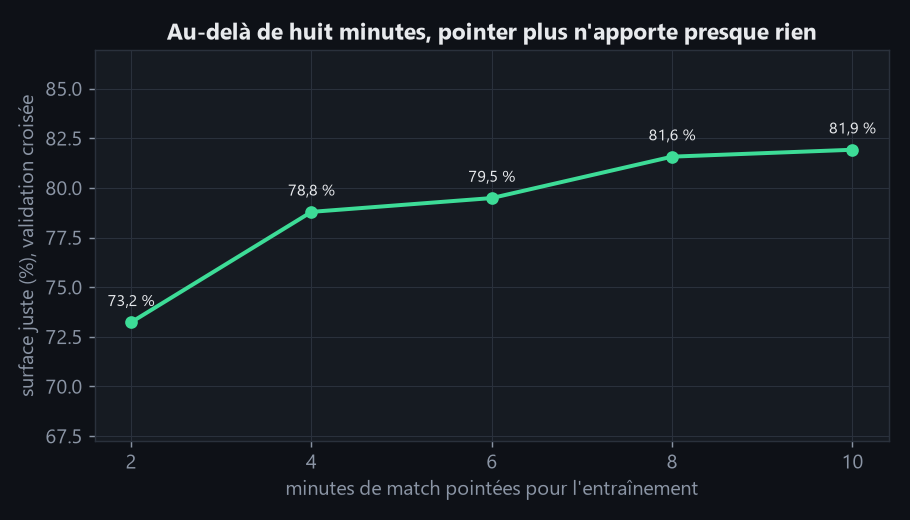
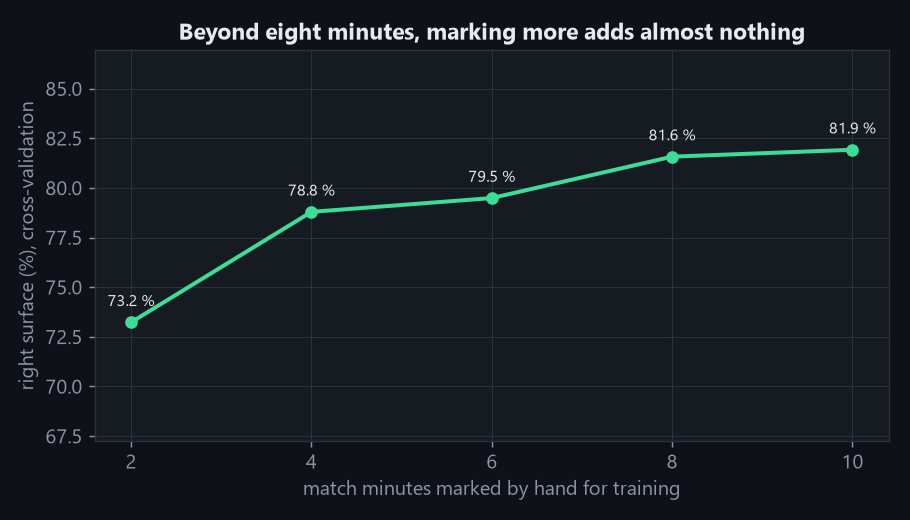
feat: statistics panel and figures in English

diff --git a/src/padel_analysis/render/figures.py b/src/padel_analysis/render/figures.py
@@ -34,7 +34,7 @@ def judges_chart(verdicts: dict, cv: dict | None, path: Path) -> None:
 
     groups, rules, model = [], [], []
     if cv is not None:
-        groups.append("Validation\ncroisée")
+        groups.append("Cross-\nvalidation")
         rules.append(_share(cv["regles"]))
         model.append(_share(cv["modele"]))
     for judge in verdicts["judges"]:
@@ -44,22 +44,22 @@ def judges_chart(verdicts: dict, cv: dict | None, path: Path) -> None:
     pooled = {kind: {"right": sum(j[kind]["right"] for j in verdicts["judges"]),
                      "real": sum(j[kind]["real"] for j in verdicts["judges"])}
               for kind in ("rules", "model")}
-    groups.append(f"Trois juges\n({pooled['model']['real']} contacts)")
+    groups.append(f"All judges\n({pooled['model']['real']} contacts)")
     rules.append(_share(pooled["rules"]))
     model.append(_share(pooled["model"]))
 
     figure, axis = plt.subplots(figsize=(9, 4.6))
     x = np.arange(len(groups))
-    for offset, values, colour, label in ((-0.2, rules, style.RULES, "Règles réglées à la main"),
-                                          (0.2, model, style.MODEL, "Modèle appris")):
+    for offset, values, colour, label in ((-0.2, rules, style.RULES, "Hand-tuned rules"),
+                                          (0.2, model, style.MODEL, "Learned model")):
         bars = axis.bar(x + offset, values, 0.38, color=colour, label=label, zorder=2)
         for bar, value in zip(bars, values, strict=True):
             axis.text(bar.get_x() + bar.get_width() / 2, value + 1, f"{value:.0f} %",
                       ha="center", color=style.TEXT, fontsize=9)
     axis.set_xticks(x, groups)
     axis.set_ylim(0, 100)
-    axis.set_ylabel("contacts réels donnés avec la bonne surface (%)")
-    axis.set_title("Contacts et surfaces, sur ce que la vidéo affiche")
+    axis.set_ylabel("real contacts given the right surface (%)")
+    axis.set_title("Contacts and surfaces, on what the video shows")
     axis.legend(loc="upper left", ncol=2)
     axis.grid(axis="x", visible=False)
     _save(figure, path)
@@ -75,14 +75,14 @@ def learning_curve_chart(curve: Sequence[dict], path: Path) -> None:
     figure, axis = plt.subplots(figsize=(7, 4))
     axis.plot(sizes, shares, color=style.MODEL, marker="o", linewidth=2.2, zorder=2)
     for size, share in zip(sizes, shares, strict=True):
-        axis.annotate(f"{share:.1f} %".replace(".", ","), (size, share),
+        axis.annotate(f"{share:.1f} %", (size, share),
                       textcoords="offset points",
                       xytext=(0, 9), ha="center", fontsize=9)
-    axis.set_xlabel("minutes de match pointées pour l'entraînement")
-    axis.set_ylabel("surface juste (%), validation croisée")
+    axis.set_xlabel("match minutes marked by hand for training")
+    axis.set_ylabel("right surface (%), cross-validation")
     axis.set_xticks(sizes)
     axis.set_ylim(min(shares) - 6, max(shares) + 5)
-    axis.set_title("Au-delà de huit minutes, pointer plus n'apporte presque rien")
+    axis.set_title("Beyond eight minutes, marking more adds almost nothing")
     _save(figure, path)
 
 
@@ -113,9 +113,9 @@ def confusion_chart(confusion: Sequence[dict], path: Path) -> None:
     names = [style.KIND_NAMES[kind] for kind in labels]
     axis.set_xticks(range(len(labels)), names)
     axis.set_yticks(range(len(labels)), names)
-    axis.set_xlabel("réponse du modèle")
-    axis.set_ylabel("vérité, pointée à la main")
-    axis.set_title("Qui est pris pour qui")
+    axis.set_xlabel("the model's answer")
+    axis.set_ylabel("truth, marked by hand")
+    axis.set_title("What is taken for what")
     axis.grid(False)
     _save(figure, path)
 
@@ -135,7 +135,7 @@ def heatmaps_chart(positions: dict, court, path: Path) -> None:
         axis.imshow(np.ma.masked_equal(grid, 0), origin="lower", extent=extent,
                     cmap="magma", alpha=0.85, zorder=2)
         axis.set_title(slot, color=style.PLAYER.get(slot, style.TEXT))
-    figure.suptitle("Occupation du terrain, match entier", color=style.TEXT)
+    figure.suptitle("Court occupancy, whole match", color=style.TEXT)
     _save(figure, path)
 
 
@@ -149,21 +149,21 @@ def net_control_chart(depths: np.ndarray, threshold: float, control: dict, path:
     left.hist(depths[~np.isnan(depths)], bins=50, range=(0, 10), color=style.KIND["verre"],
               zorder=2)
     left.axvline(threshold, color=style.KIND["filet"], linewidth=2,
-                 label=f"seuil {threshold} m, au creux des deux modes")
-    left.set_xlabel("distance au filet (m)")
+                 label=f"threshold {threshold} m, in the trough between the two modes")
+    left.set_xlabel("distance to the net (m)")
     left.set_ylabel("positions")
-    left.set_title("Deux profondeurs : au filet, ou au fond")
+    left.set_title("Two depths: at the net, or at the back")
     left.legend()
 
-    labels = ["Paire proche", "Paire du fond", "Disputé"]
+    labels = ["Near pair", "Far pair", "Contested"]
     values = [control["near_percent"], control["far_percent"], control["contested_percent"]]
     colours = [style.PLAYER["near_1"], style.PLAYER["far_1"], style.MUTED]
     bars = right.bar(labels, values, color=colours, zorder=2)
     for bar, value in zip(bars, values, strict=True):
         right.text(bar.get_x() + bar.get_width() / 2, value + 1, f"{value:.0f} %",
                    ha="center", color=style.TEXT, fontsize=9)
-    right.set_ylabel("temps de jeu (%)")
-    right.set_title("Qui tient le filet")
+    right.set_ylabel("playing time (%)")
+    right.set_title("Who holds the net")
     right.grid(axis="x", visible=False)
     _save(figure, path)
 
@@ -171,13 +171,13 @@ def net_control_chart(depths: np.ndarray, threshold: float, control: dict, path:
 PAIR_COLOURS = ("#3987e5", "#d95926")
 """The two pairs, top row of the scoreboard then bottom."""
 DUEL_ROWS = (
-    ("points_won", "Points gagnés", "exact : lus au tableau"),
-    ("strikes", "Frappes", "± 1 %"),
-    ("volleys", "Volées", "± 7 %"),
-    ("after_glass", "Frappes après une vitre", "± 6 %"),
-    ("distance_m", "Distance parcourue", "± 1 %"),
+    ("points_won", "Points won", "exact: read off the scoreboard"),
+    ("strikes", "Strokes", "± 1 %"),
+    ("volleys", "Volleys", "± 7 %"),
+    ("after_glass", "Strokes after the glass", "± 6 %"),
+    ("distance_m", "Distance covered", "± 1 %"),
 )
-MATCH_NAMES = {"FinalF": "Finale féminine", "FinalM": "Finale masculine"}
+MATCH_NAMES = {"FinalF": "Women's final", "FinalM": "Men's final"}
 
 
 def _pair_legend(axis, names) -> None:
@@ -207,9 +207,9 @@ def pair_duel_chart(reports: Sequence[dict], path: Path) -> None:
             axis.barh(y, 1 - share, left=share, color=PAIR_COLOURS[1], height=0.62,
                       edgecolor=style.PANEL, linewidth=2)
             unit = " m" if key == "distance_m" else ""
-            axis.text(0.015, y, f"{a:,.0f}{unit}".replace(",", " "), va="center",
+            axis.text(0.015, y, f"{a:,.0f}{unit}", va="center",
                       color=style.TEXT, fontsize=10, fontweight="bold")
-            axis.text(0.985, y, f"{b:,.0f}{unit}".replace(",", " "), va="center", ha="right",
+            axis.text(0.985, y, f"{b:,.0f}{unit}", va="center", ha="right",
                       color=style.TEXT, fontsize=10, fontweight="bold")
             axis.text(1.02, y, reliability, va="center", color=style.MUTED, fontsize=9,
                       transform=axis.get_yaxis_transform())
@@ -221,9 +221,9 @@ def pair_duel_chart(reports: Sequence[dict], path: Path) -> None:
         axis.grid(False)
         for spine in axis.spines.values():
             spine.set_visible(False)
-        net = " · ".join(f"{n} {report['pairs'][n]['net_share']:.0%}" for n in names)
+        net = " · ".join(f"{n} {100 * report['pairs'][n]['net_share']:.0f} %" for n in names)
         axis.set_title(f"{MATCH_NAMES.get(report['match'], report['match'])}, "
-                       f"{report['minutes']:.0f} min de jeu, temps au filet {net} (± 0,3 pt)",
+                       f"{report['minutes']:.0f} min of play, time at the net {net} (± 0.3 pt)",
                        loc="left", pad=28, fontsize=11)
         _pair_legend(axis, names)
     _save(figure, path)
@@ -254,7 +254,7 @@ def points_by_length_chart(reports: Sequence[dict], path: Path) -> None:
                        fontsize=11)
         axis.grid(axis="x", visible=False)
         _pair_legend(axis, names)
-    np.atleast_1d(axes)[0].set_ylabel("points gagnés")
+    np.atleast_1d(axes)[0].set_ylabel("points won")
     _save(figure, path)
 
 

diff --git a/src/padel_analysis/render/stats_panel.py b/src/padel_analysis/render/stats_panel.py
@@ -15,9 +15,9 @@ from ..geometry.court import Court
 from . import figure_style as style
 
 FONTS = Path("C:/Windows/Fonts")
-LABELS = {"raquette": "FRAPPE", "sol": "SOL", "verre": "VITRE", "grillage": "GRILLAGE",
-          "filet": "FILET"}
-PAIR_NAMES = {"proche": "Paire proche", "fond": "Paire du fond"}
+LABELS = {"raquette": "STROKE", "sol": "FLOOR", "verre": "GLASS", "grillage": "MESH",
+          "filet": "NET"}
+PAIR_NAMES = {"proche": "Near pair", "fond": "Far pair"}
 PAIR_COLOUR = {"proche": style.PLAYER["near_1"], "fond": style.PLAYER["far_1"]}
 GRID = {"far_1": (0, 0), "far_2": (1, 0), "near_2": (0, 1), "near_1": (1, 1)}
 """Where each player's cell sits: the far pair on top, as on the minimap."""
@@ -87,7 +87,7 @@ class StatsPanel:
         text, muted = _rgb(style.TEXT), _rgb(style.MUTED)
 
         minutes, seconds = divmod(int(stats.elapsed), 60)
-        pen.text((x0, pad), "STATISTIQUES", font=self.fonts["title"], fill=text)
+        pen.text((x0, pad), "STATISTICS", font=self.fonts["title"], fill=text)
         pen.text((x1, pad), f"{minutes:02d}:{seconds:02d}", font=self.fonts["title"],
                  fill=muted, anchor="ra")
         top = pad + round(56 * s)
@@ -98,17 +98,17 @@ class StatsPanel:
         self._minimap(pen, stats, x0, top, map_width, map_height)
         cx, y = x0 + map_width + round(26 * s), top
         shots = stats.shots if stats.rally_number is None else stats.rally_shots
-        label = ("coups joués" if stats.rally_number is None
-                 else f"coups, échange n° {stats.rally_number}")
+        label = ("shots played" if stats.rally_number is None
+                 else f"shots, rally no. {stats.rally_number}")
         pen.text((cx, y), str(shots), font=self.fonts["big"], fill=text)
         pen.text((cx, y + round(56 * s)), label, font=self.fonts["label"], fill=muted)
         y += round(86 * s)
         if stats.rally_number is not None:
-            pen.text((cx, y), f"plus long : {stats.longest_rally} coups",
+            pen.text((cx, y), f"longest: {stats.longest_rally} shots",
                      font=self.fonts["small"], fill=muted)
         y += round(40 * s)
         y = self._duel(pen, stats, cx, x1, y)
-        pen.text((cx, y), "balle, dernier coup", font=self.fonts["label"], fill=muted)
+        pen.text((cx, y), "ball, last shot", font=self.fonts["label"], fill=muted)
         speed = stats.last_shot_speed
         pen.text((cx, y + round(22 * s)),
                  "-" if speed is None else f"{self.about} {speed:.0f} km/h",
@@ -135,7 +135,7 @@ class StatsPanel:
         s = self.scale
         shots = stats.rally_pair_shots or {"proche": 0, "fond": 0}
         near, far = shots["proche"], shots["fond"]
-        pen.text((x0, y), "frappes dans l'échange", font=self.fonts["label"],
+        pen.text((x0, y), "strokes in the rally", font=self.fonts["label"],
                  fill=_rgb(style.MUTED))
         y += round(28 * s)
         height = round(14 * s)
@@ -163,7 +163,7 @@ class StatsPanel:
         """Draw a 2 x 2 grid of the players, with hairlines between the cells."""
         s = self.scale
         text, muted, rule = _rgb(style.TEXT), _rgb(style.MUTED), _rgb(style.LINE)
-        pen.text((x0, y), "JOUEURS", font=self.fonts["label"], fill=muted)
+        pen.text((x0, y), "PLAYERS", font=self.fonts["label"], fill=muted)
         y += round(32 * s)
         pen.line((x0, y, x1, y), fill=text, width=max(1, round(2 * s)))
         gap, height = round(18 * s), round(236 * s)
@@ -183,8 +183,8 @@ class StatsPanel:
             pen.text((bx + round(20 * s), mid), self.names.get(line.slot, line.slot),
                      font=self.fonts["name"], fill=text, anchor="lm")
             pen.text((bx, by + round(36 * s)),
-                     f"{_plural(line.shots, 'frappe')} · {line.volleys} vol. · "
-                     f"{line.after_bounce} reb.", font=self.fonts["small"], fill=muted)
+                     f"{_plural(line.shots, 'stroke')} · {line.volleys} vol. · "
+                     f"{line.after_bounce} bnc.", font=self.fonts["small"], fill=muted)
             for i, (value, label) in enumerate(self._values(line, stats)):
                 vx = bx + (i % 2) * (width / 2)
                 vy = by + round(70 * s) + (i // 2) * round(70 * s)
@@ -193,11 +193,11 @@ class StatsPanel:
 
     def _values(self, line: PlayerLine, stats: LiveStats) -> list[tuple[str, str]]:
         net = "-" if math.isnan(line.net_share) else f"{100 * line.net_share:.0f} %"
-        values = [(f"{line.distance:.0f} m", "parcourus"),
+        values = [(f"{line.distance:.0f} m", "covered"),
                   (f"{self.about} {line.top_speed:.0f}", "km/h max"),
-                  (net, "au filet")]
+                  (net, "at the net")]
         if stats.pair_points is not None:
-            values.append((f"{line.winners} · {line.errors}", "gagnés · fautes"))
+            values.append((f"{line.winners} · {line.errors}", "winners · errors"))
         return values
 
     def _minimap(self, pen, stats: LiveStats, x: int, y: int, width: int, height: int) -> None:

diff --git a/tests/render/test_figures.py b/tests/render/test_figures.py
@@ -15,8 +15,8 @@ def _counts(right, shown, real):
 
 
 VERDICTS = {"judges": [
-    {"name": "Juge 1", "rules": _counts(60, 90, 100), "model": _counts(80, 85, 100)},
-    {"name": "Juge 2", "rules": _counts(55, 80, 100), "model": _counts(78, 84, 100)},
+    {"name": "Judge 1", "rules": _counts(60, 90, 100), "model": _counts(80, 85, 100)},
+    {"name": "Judge 2", "rules": _counts(55, 80, 100), "model": _counts(78, 84, 100)},
 ]}
 
 
@@ -57,7 +57,7 @@ def test_the_player_charts_are_written(tmp_path):
 def _match_report(match):
     pair = {"points_won": 5, "strikes": 40, "volleys": 18, "after_bounce": 15,
             "after_glass": 9, "distance_m": 800.0, "net_share": 0.5,
-            "won_by_length": {"1 à 3 coups": 1, "8 coups et plus": 4}}
+            "won_by_length": {"1 to 3 shots": 1, "8 shots or more": 4}}
     grid = [[0.0] * 20 for _ in range(40)]
     grid[10][5] = 1.0
     occupancy = {"grid": grid, "extent": [-5.0, 5.0, -10.0, 10.0]}

diff --git a/src/padel_analysis/render/figure_style.py b/src/padel_analysis/render/figure_style.py
@@ -23,8 +23,8 @@ KIND = {
 PLAYER = {"near_1": "#ffd166", "near_2": "#f4845f", "far_1": "#9d7bea", "far_2": "#f15bb5"}
 RULES = "#8b95a5"
 MODEL = "#3ddc97"
-KIND_NAMES = {"raquette": "frappe", "sol": "sol", "verre": "vitre", "grillage": "grillage",
-              "filet": "filet", "aucun": "rien", "fin": "rien ensuite"}
+KIND_NAMES = {"raquette": "stroke", "sol": "floor", "verre": "glass", "grillage": "mesh",
+              "filet": "net", "aucun": "nothing", "fin": "nothing after"}
 
 
 def use() -> None:

diff --git a/tests/analytics/test_match_stats.py b/tests/analytics/test_match_stats.py
@@ -56,7 +56,7 @@ def test_strikes_are_split_into_volleys_and_shots_after_a_bounce_or_the_glass():
     near, far = pairs[1], pairs[2]
     assert (near.strikes, near.volleys, near.after_bounce) == (2, 1, 0)
     assert (far.strikes, far.after_bounce, far.after_glass) == (2, 2, 1)
-    assert far.won_by_length == {"4 à 7 coups": 1}
+    assert far.won_by_length == {"4 to 7 shots": 1}
 
 
 def test_distance_is_never_joined_across_a_splice_and_time_at_the_net_is_counted():

diff --git a/src/padel_analysis/rallies.py b/src/padel_analysis/rallies.py
@@ -11,10 +11,10 @@ import numpy as np
 from .analytics.rally import Rally, RallyContact
 
 DEFAULT_NAMES = {
-    "near_1": "Proche 1",
-    "near_2": "Proche 2",
-    "far_1": "Fond 1",
-    "far_2": "Fond 2",
+    "near_1": "Near 1",
+    "near_2": "Near 2",
+    "far_1": "Far 1",
+    "far_2": "Far 2",
 }
 ANSWER_OF_LABEL = {"RAQUETTE": "raquette", "SOL": "sol", "VITRE": "verre",
                    "GRILLAGE": "grillage", "FILET": "filet"}

diff --git a/src/padel_analysis/analytics/match_stats.py b/src/padel_analysis/analytics/match_stats.py
@@ -20,7 +20,7 @@ from .sides import end_changes, half_of_top_row
 
 WALLS = ("verre", "grillage")
 ROWS = (1, 2)
-LENGTHS = ((1, 3, "1 à 3 coups"), (4, 7, "4 à 7 coups"), (8, 1000, "8 coups et plus"))
+LENGTHS = ((1, 3, "1 to 3 shots"), (4, 7, "4 to 7 shots"), (8, 1000, "8 shots or more"))
 
 
 @dataclass

diff --git a/README.md b/README.md
@@ -19,10 +19,10 @@ match · checked against more than **2,000 contacts marked by hand**.
 
 https://github.com/user-attachments/assets/d661c68a-3d02-4013-a0c8-071019c78d98
 
-<sub>With sound; the captions are in French. The rally in the film, its contacts and its
-statistics are the ones the project measured; between two contacts, the ball's 3D
-trajectory is an illustration. Footage: PadelTracker100 dataset (CC-BY-4.0), World
-Padel Tour broadcast.</sub>
+<sub>With sound. The rally in the film, its contacts and its statistics are the ones
+the project measured; between two contacts, the ball's 3D trajectory is an
+illustration. Footage: PadelTracker100 dataset (CC-BY-4.0), World Padel Tour
+broadcast.</sub>
 
 ## What the project produces
 
@@ -106,7 +106,7 @@ The report is given **by pair, not by player**: when tracking confuses two partn
 the pair's total stays right, but one player's distance is off by more than 12 % once
 in ten. The teams are followed from one change of ends to the next by the score, which
 says when they change; the report therefore starts at the first scoreboard reading.
-Occupancy is folded onto one half: the net at the top. (Figure labels are in French.)
+Occupancy is folded onto one half: the net at the top.
 
 ## Limitations
 

diff --git a/docs/README.fr.md b/docs/README.fr.md
@@ -40,7 +40,7 @@ et son temps au filet. À chaque contact, la zone touchée (carré de service, f
 panneau de vitre) s'éclaire en perspective.
 
 <p align="center">
-  <img src="figures/panneau.png" alt="Panneau de statistiques d'un échange" width="300">
+  <img src="figures/panneau_fr.png" alt="Panneau de statistiques d'un échange" width="300">
 </p>
 
 ## Comment ça marche
@@ -109,7 +109,8 @@ Le bilan est donné **par paire, pas par joueur** : quand le suivi confond deux
 partenaires, la somme de la paire reste juste, mais la distance d'un joueur est fausse
 de plus de 12 % une fois sur dix. Les équipes sont suivies d'un changement de côté à
 l'autre par le score, qui dit quand elles changent ; le bilan part donc de la première
-lecture du tableau. L'occupation est repliée sur une moitié : le filet en haut.
+lecture du tableau. L'occupation est repliée sur une moitié : le filet en haut. (Les
+libellés des figures sont en anglais.)
 
 ## Limites
 
